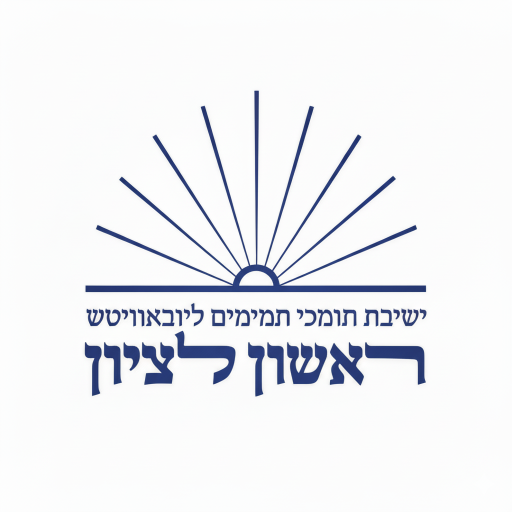
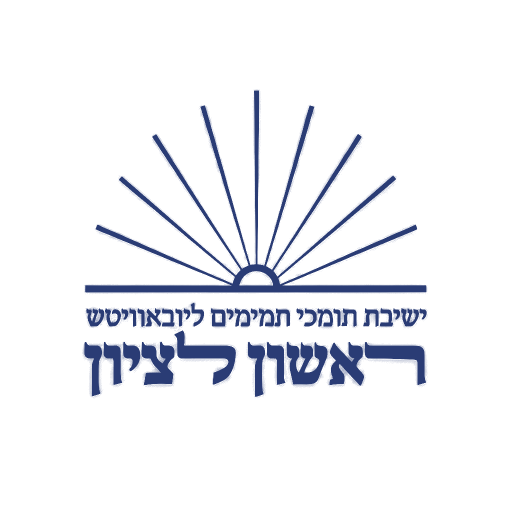
סבב 72: מאסטר אחד לאייקון, וצבע דיו אחד בשני המסלולים
- design/icon-master.png של שכר הוא המקור היחיד, בית-לבית בשתיהן
- דיו ההנהלה נגזר ממנו בסיבוב גוון 225.8° ובהתאמת טון ⟵ [42,60,117]
- tile() מצייר מעכשיו את APP.ink דרך המסכה — ⛔ ולא מעתיק RGB מהמאסטר
- מסכה מתחת ל-ALPHA_MIN מתאפסת: רעש הנייר צבע את רקע האריח
- 16 הנכסים הופקו מחדש בשתיהן; תוכן 192×171 בשתיהן
- שורה 74 — תקן צבע הדיו, probe על שני המסלולים, מוטציה ומוטציית-נגד
- versionCode 11 ⟵ 12 בשתיהן, וטבלת android/README עודכנה

diff --git a/android/README.md b/android/README.md
@@ -13,7 +13,7 @@ https://ygtotlrl-lab.github.io/hanhala-ruchanit/
 |---|---|
 | **Package ID** | `com.hanhala.ruchanit` |
 | **טוען** | `https://ygtotlrl-lab.github.io/hanhala-ruchanit/` — **מהרשת**, לא מנכסים מוטבעים |
-| **versionCode** | 11 — קודם בסבב 71 (כל נכסי האייקון נוצרו מחדש ע"י `tools/gen-icons.mjs`, שהוא מעכשיו מקור האמת היחיד להם). 10 — קודם בסבב 71 (חמשת קובצי `ic_launcher_foreground` נגזרו מחדש לצלע תוכן 48/72/96/144/192 בדיוק, בהכפלה מוקדמת באלפא). 9 — קודם בסבב 68 (היסטוריית הגרסאות ירדה מהערות `build.gradle` — מקור אמת שני; ⛔ הטבלה הזו היא ההיסטוריה). 8 — קודם בסבב 66 (עשרת קובצי ה-mipmap הוחלפו; חמישה קובצי `ic_launcher_foreground` שנדחפו בטעות אל `src/main/github.com/…` נמחקו אחרי מדידה של אפס קוראים). 6 — קודם בתיקון שאחרי סבב 60 (קיצור ההערה המשותפת ב-`ShellActivity`, שנעשה בסבב 60 בלי קידום). 5 — קודם בסבב 58 (הסרת `FLAG_ACTIVITY_NEW_TASK` ממסירת יעד חיצוני ל-`ACTION_VIEW`). 4 = סבב 46ב (היפוך ברירת המחדל בקובצי התצורה). 3 = סבב 45, 2 = סבב 41 (חילוץ המעטפת), 1 = המעטפת הראשונה בריפו הזה, טוענת מהרשת. (ה-APK הישן `yeshiva-manager.apk` נבנה מחוץ לריפו במפתח זמני — הוא איננו אב של המעטפת הזו) |
+| **versionCode** | 12 — קודם בסבב 72 (מאסטר האייקון אוחד: קובץ אחד לשתי האפליקציות שציורן זהה, וצבע הדיו נגזר ממנו במקום להיות מוקלד — `tile()` ו-`foreground()` מציירים מעכשיו באותו צבע). 11 — קודם בסבב 71 (כל נכסי האייקון נוצרו מחדש ע"י `tools/gen-icons.mjs`, שהוא מעכשיו מקור האמת היחיד להם). 10 — קודם בסבב 71 (חמשת קובצי `ic_launcher_foreground` נגזרו מחדש לצלע תוכן 48/72/96/144/192 בדיוק, בהכפלה מוקדמת באלפא). 9 — קודם בסבב 68 (היסטוריית הגרסאות ירדה מהערות `build.gradle` — מקור אמת שני; ⛔ הטבלה הזו היא ההיסטוריה). 8 — קודם בסבב 66 (עשרת קובצי ה-mipmap הוחלפו; חמישה קובצי `ic_launcher_foreground` שנדחפו בטעות אל `src/main/github.com/…` נמחקו אחרי מדידה של אפס קוראים). 6 — קודם בתיקון שאחרי סבב 60 (קיצור ההערה המשותפת ב-`ShellActivity`, שנעשה בסבב 60 בלי קידום). 5 — קודם בסבב 58 (הסרת `FLAG_ACTIVITY_NEW_TASK` ממסירת יעד חיצוני ל-`ACTION_VIEW`). 4 = סבב 46ב (היפוך ברירת המחדל בקובצי התצורה). 3 = סבב 45, 2 = סבב 41 (חילוץ המעטפת), 1 = המעטפת הראשונה בריפו הזה, טוענת מהרשת. (ה-APK הישן `yeshiva-manager.apk` נבנה מחוץ לריפו במפתח זמני — הוא איננו אב של המעטפת הזו) |
 | **minSdk / targetSdk** | 21 / 34 |
 | **WebView** | JavaScript, DOM storage (localStorage — שם יושבים מפתחות ה-`ys_*` וה-pending), DB. **בלי** גישת `file://` ובלי mixed content פתוח — האתר הוא https בלבד, `usesCleartextTraffic=false` |
 | **ניווט** | כל `http`/`https` **נשאר בתוך המעטפת**. שאר הסכימות (`tel:`, `mailto:`, `whatsapp:`, …) נמסרות למערכת |

diff --git a/CLAUDE.md b/CLAUDE.md
@@ -251,7 +251,7 @@ foot)` — מיכל אחד ומסלול סגירה יחיד. ⛔ אירועים 
 | | **ו · אנדרואיד ומעטפת** | | | | | | |
 | 72 | מעטפת `ShellActivity` | ליבת המעטפת, זהה בית-לבית | ✅ | ✅ | ✅ | ✅ |  |
 | 73 | מספר קבצים ב-`android/` | **20 קבצים** | ⭕ | ✅ | ✅ | ✅ | 21 ביומן — `file_paths` לגשר השיתוף |
-| 74 | שכבת האייקונים | 10 קובצי mipmap · מסגרת 48–192 ו-108–432 · תוכן 48–192 · רקע תואם · ⛔ **ותיבת התוכן במרכז המסגרת, בסטייה של פיקסל אחד לכל היותר** | ✅ | ✅ | ✅ | ✅ |  |
+| 74 | שכבת האייקונים | 10 קובצי mipmap · מסגרת 48–192 ו-108–432 · תוכן 48–192 · רקע תואם · ⛔ **תיבת התוכן במרכז המסגרת, בסטייה של פיקסל אחד לכל היותר** · ⛔ **וצבע הדיו זהה ב-`tile()` וב-`foreground()`, ומוצהר ב-`APP`** | ✅ | ✅ | ✅ | ✅ |  |
 | 75 | הכפלה מוקדמת באלפא | הקטנת נכס עם שקיפות חלקית | ✅ | ✅ | ✅ | ✅ |  |
 | 76 | `manifest.json` | שלושה אייקונים, `maskable` נפרד | ✅ | ✅ | ✅ | ✅ |  |
 | 77 | גשר שיתוף | `createChooser`, ⛔ בלי `NEW_TASK` | ✅ | ⭕ | ⭕ | ⭕ | רק יומן מייצאת קובץ החוצה |
